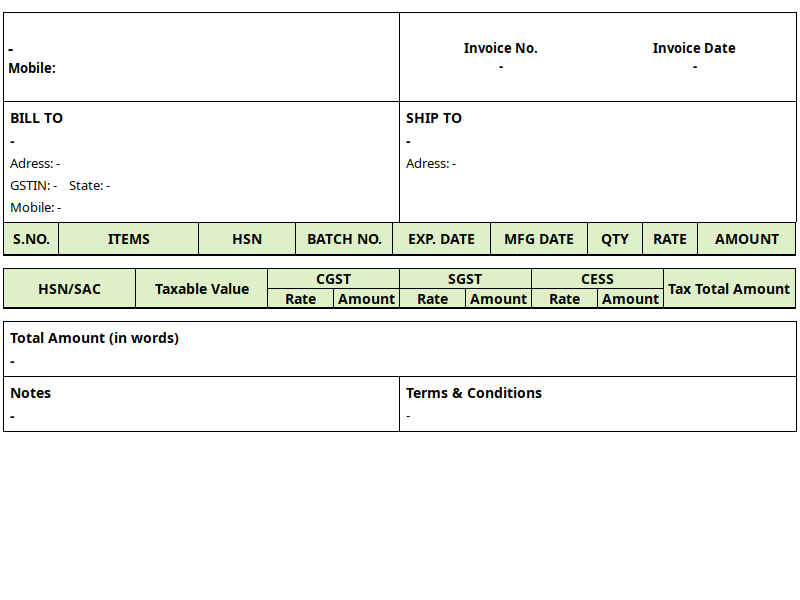
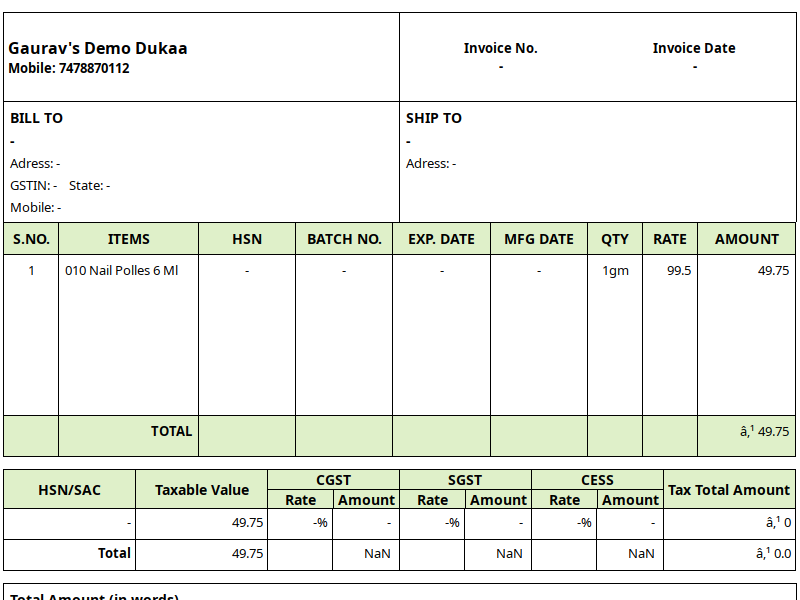
POC Complete

diff --git a/index.js b/index.js
@@ -1,10 +1,15 @@
+const join = require("path").join;
 const puppeteer = require("puppeteer-core");
 const chromium = require("@sparticuz/chromium");
 
-const store = require("./store.json")
 const data = require("./sale.json")
+const store = require("./store.json")
 
 var execPath;
+
+let browser = null;
+chromium.setHeadlessMode = true;
+chromium.setGraphicsMode = false;
 
 async function getPath(){
   let startTime = performance.now();
@@ -20,12 +25,9 @@ async function getPath(){
 }
 
 async function func() {
-
-  let browser = null;
-  chromium.setHeadlessMode = true;
-  chromium.setGraphicsMode = false;
-
   try {
+    let startTime = performance.now();
+    // Phase 2
     browser = await puppeteer.launch({
       args: chromium.args,
       executablePath: await getPath(),
@@ -33,12 +35,46 @@ async function func() {
       ignoreHTTPSErrors: true,
     });
     
-    const page = await browser.newPage();
-    await page.goto("file:///home/goofynugtz/Work/HomeDrop/pupp-poc/templates/gst-invoice.html");
-    await page.evaluate(new Function('store', 'data', 'loadData(store, data)'), store, data)
+    let endTime = performance.now();
+    let executionTime = endTime - startTime;
+    console.log(`Phase 2 [Browser Invoke]: ${executionTime} ms`)
+
     
-    await page.screenshot({ path: 'screenshot.png' });
-    return 'Screenshot captured';
+    startTime = performance.now();
+    // Phase 3
+    const page = await browser.newPage();
+    endTime = performance.now();
+    executionTime = endTime - startTime;
+    console.log(`Phase 3 [New Page]: ${executionTime} ms`)
+
+    startTime = performance.now();
+    // Phase 4
+    await page.goto("file:///home/goofynugtz/Work/HomeDrop/pupp-poc/templates/gst-invoice.html");
+    endTime = performance.now();
+    executionTime = endTime - startTime;
+    console.log(`Phase 4 [Access HTML]: ${executionTime} ms`)
+
+    startTime = performance.now();
+    // Phase 5
+    await page.evaluate(new Function('store', 'data', 'loadData(store, data)'), store, data)
+    endTime = performance.now();
+    executionTime = endTime - startTime;
+    console.log(`Phase 5 [Data Injection]: ${executionTime} ms`)
+    
+    startTime = performance.now();
+    // Phase 6
+    let path = join(__dirname, `invoice.pdf`)
+    await page.screenshot({ path: 'screenshot.png' })
+    await page.pdf({
+      path: path,
+      format: 'A4',
+      margin: { top: "0.5in", bottom: "1.5in", left: "1in", right: "1in", },
+  });
+    endTime = performance.now();
+    executionTime = endTime - startTime;
+    console.log(`Phase 6 [PDF Save to File System]: ${executionTime} ms`)
+    
+    return 'PDF Created'
 
   } catch (error) {
     console.error('Error:', error);

diff --git a/templates/gst-invoice.html b/templates/gst-invoice.html
@@ -351,7 +351,7 @@
 
         function loadData(store, sale) {
             appendStoreData(store);
-            appendInvoiceData(sale);
+            // appendInvoiceData(sale);
             appendCustomerData(sale);
             appendBottomData(sale);
             appendProductTableData(sale.products, sale);
